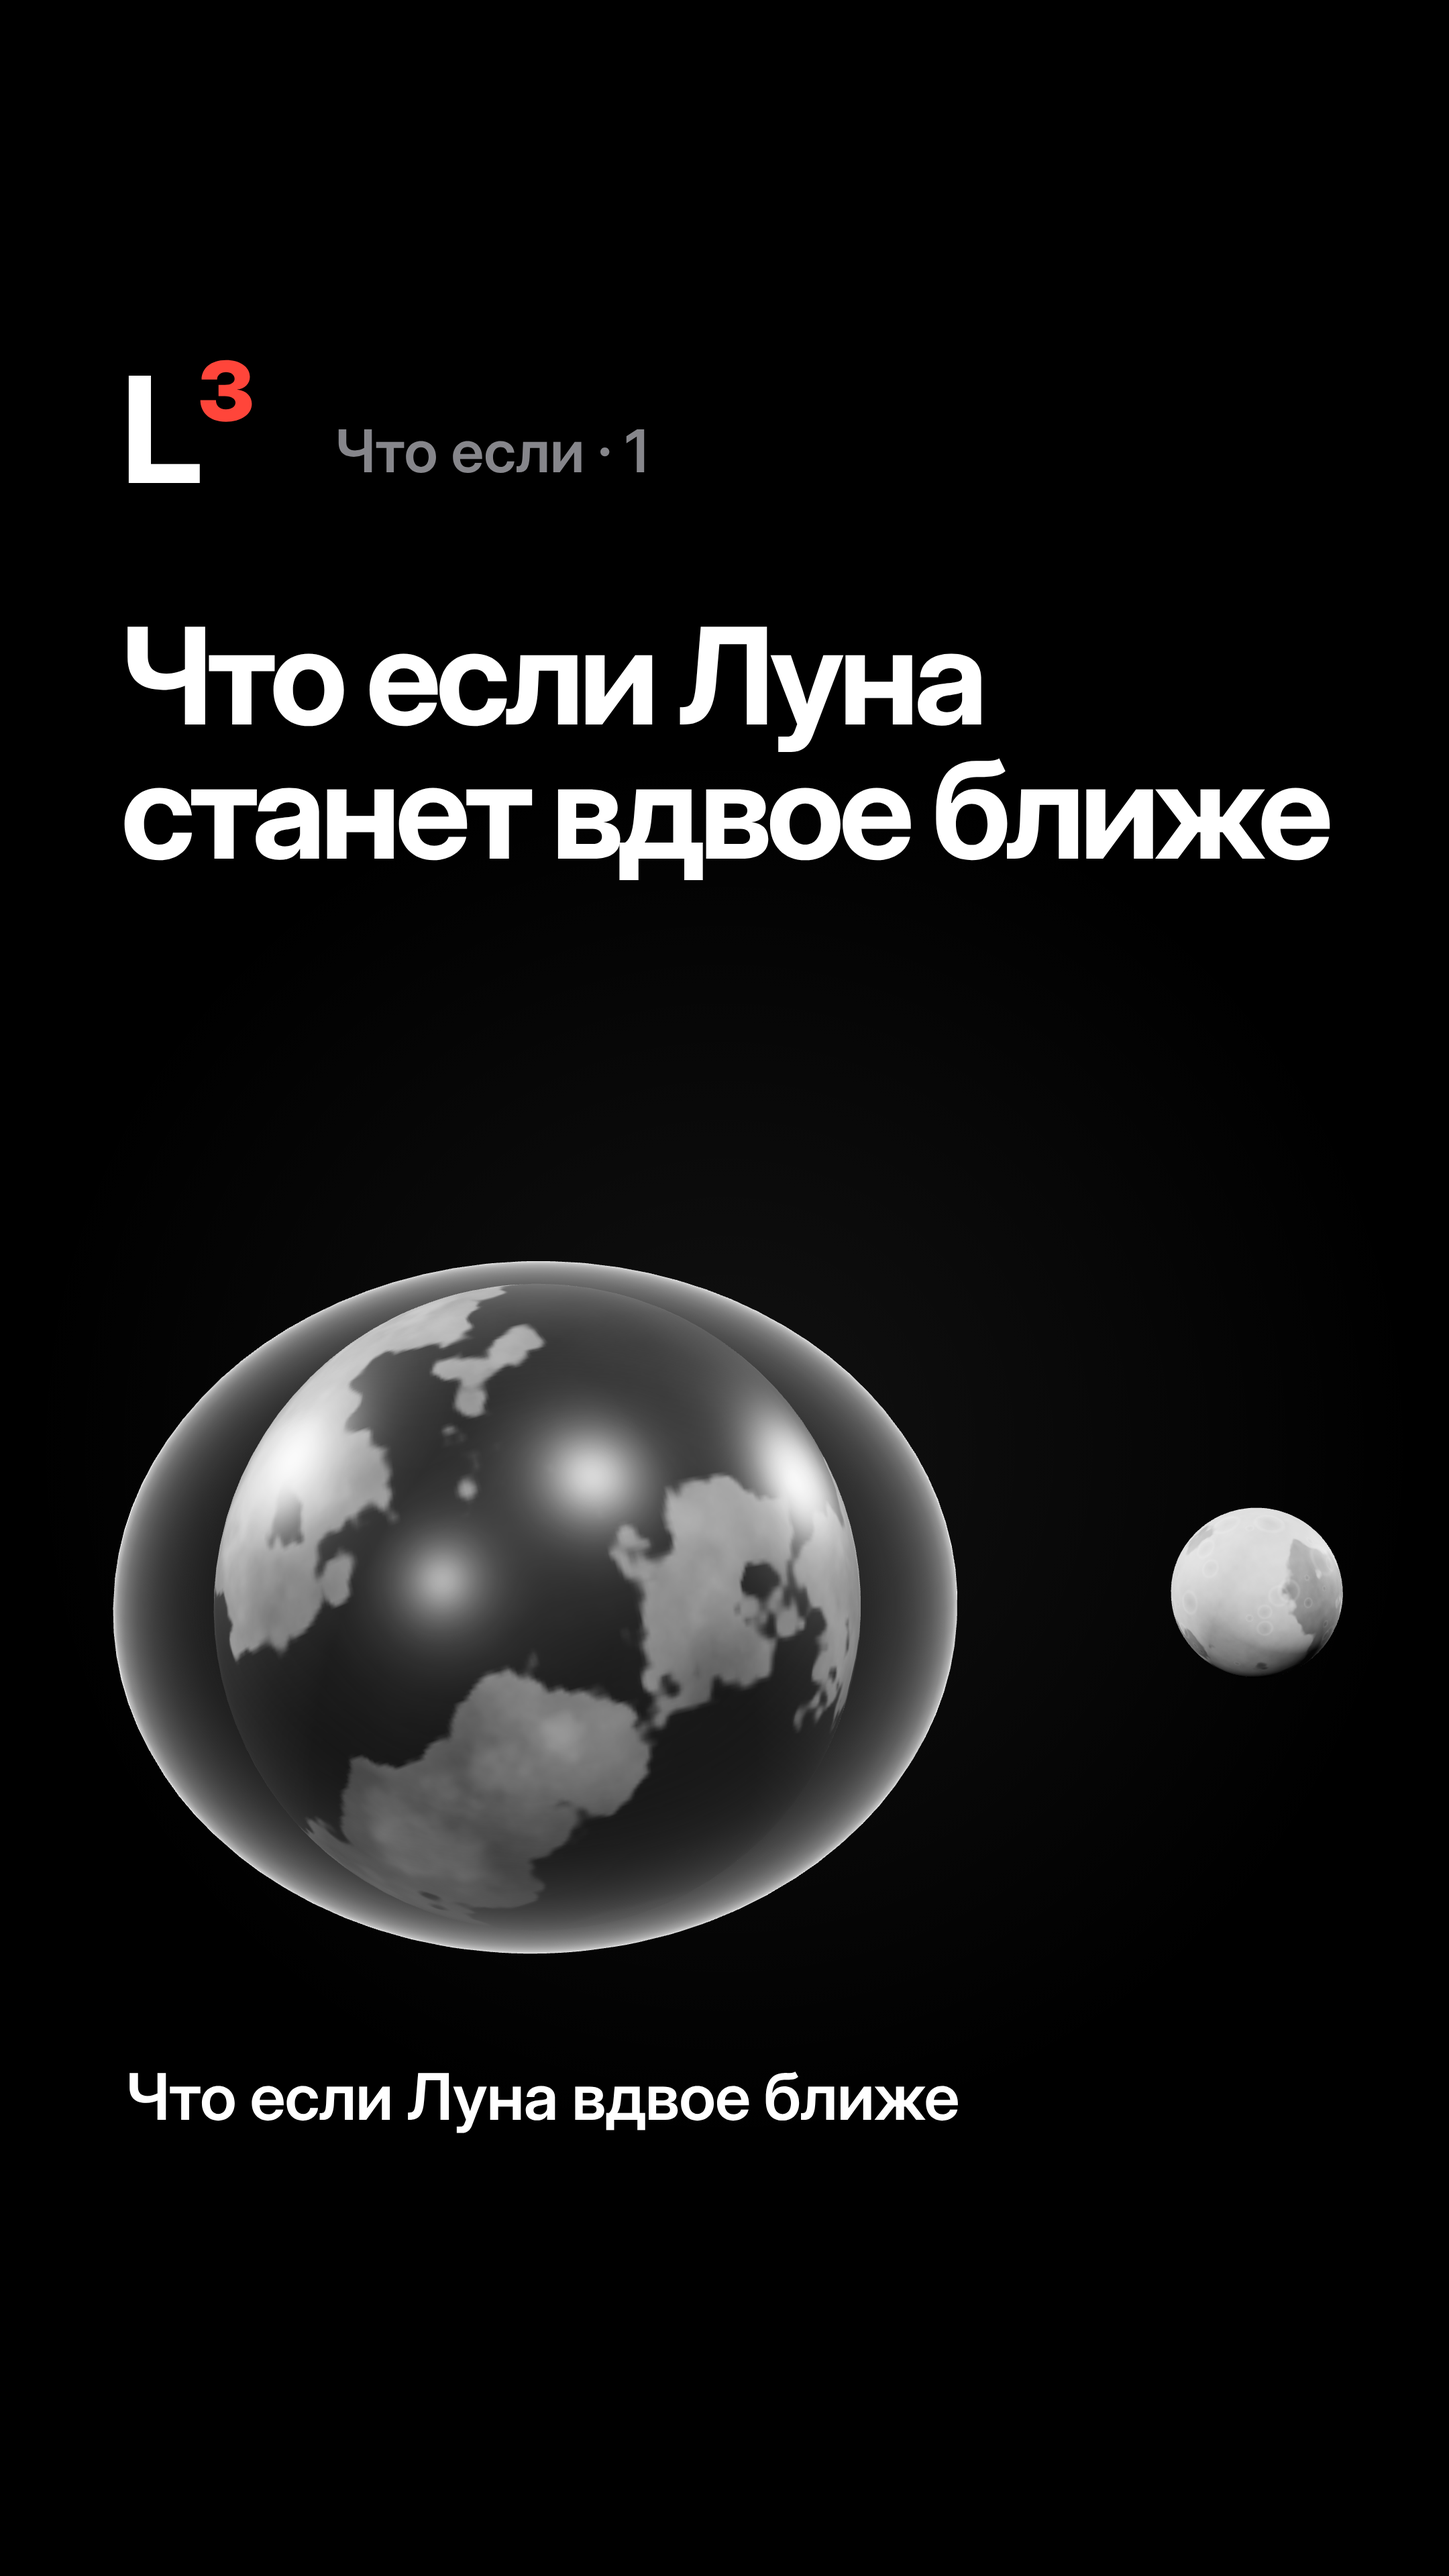
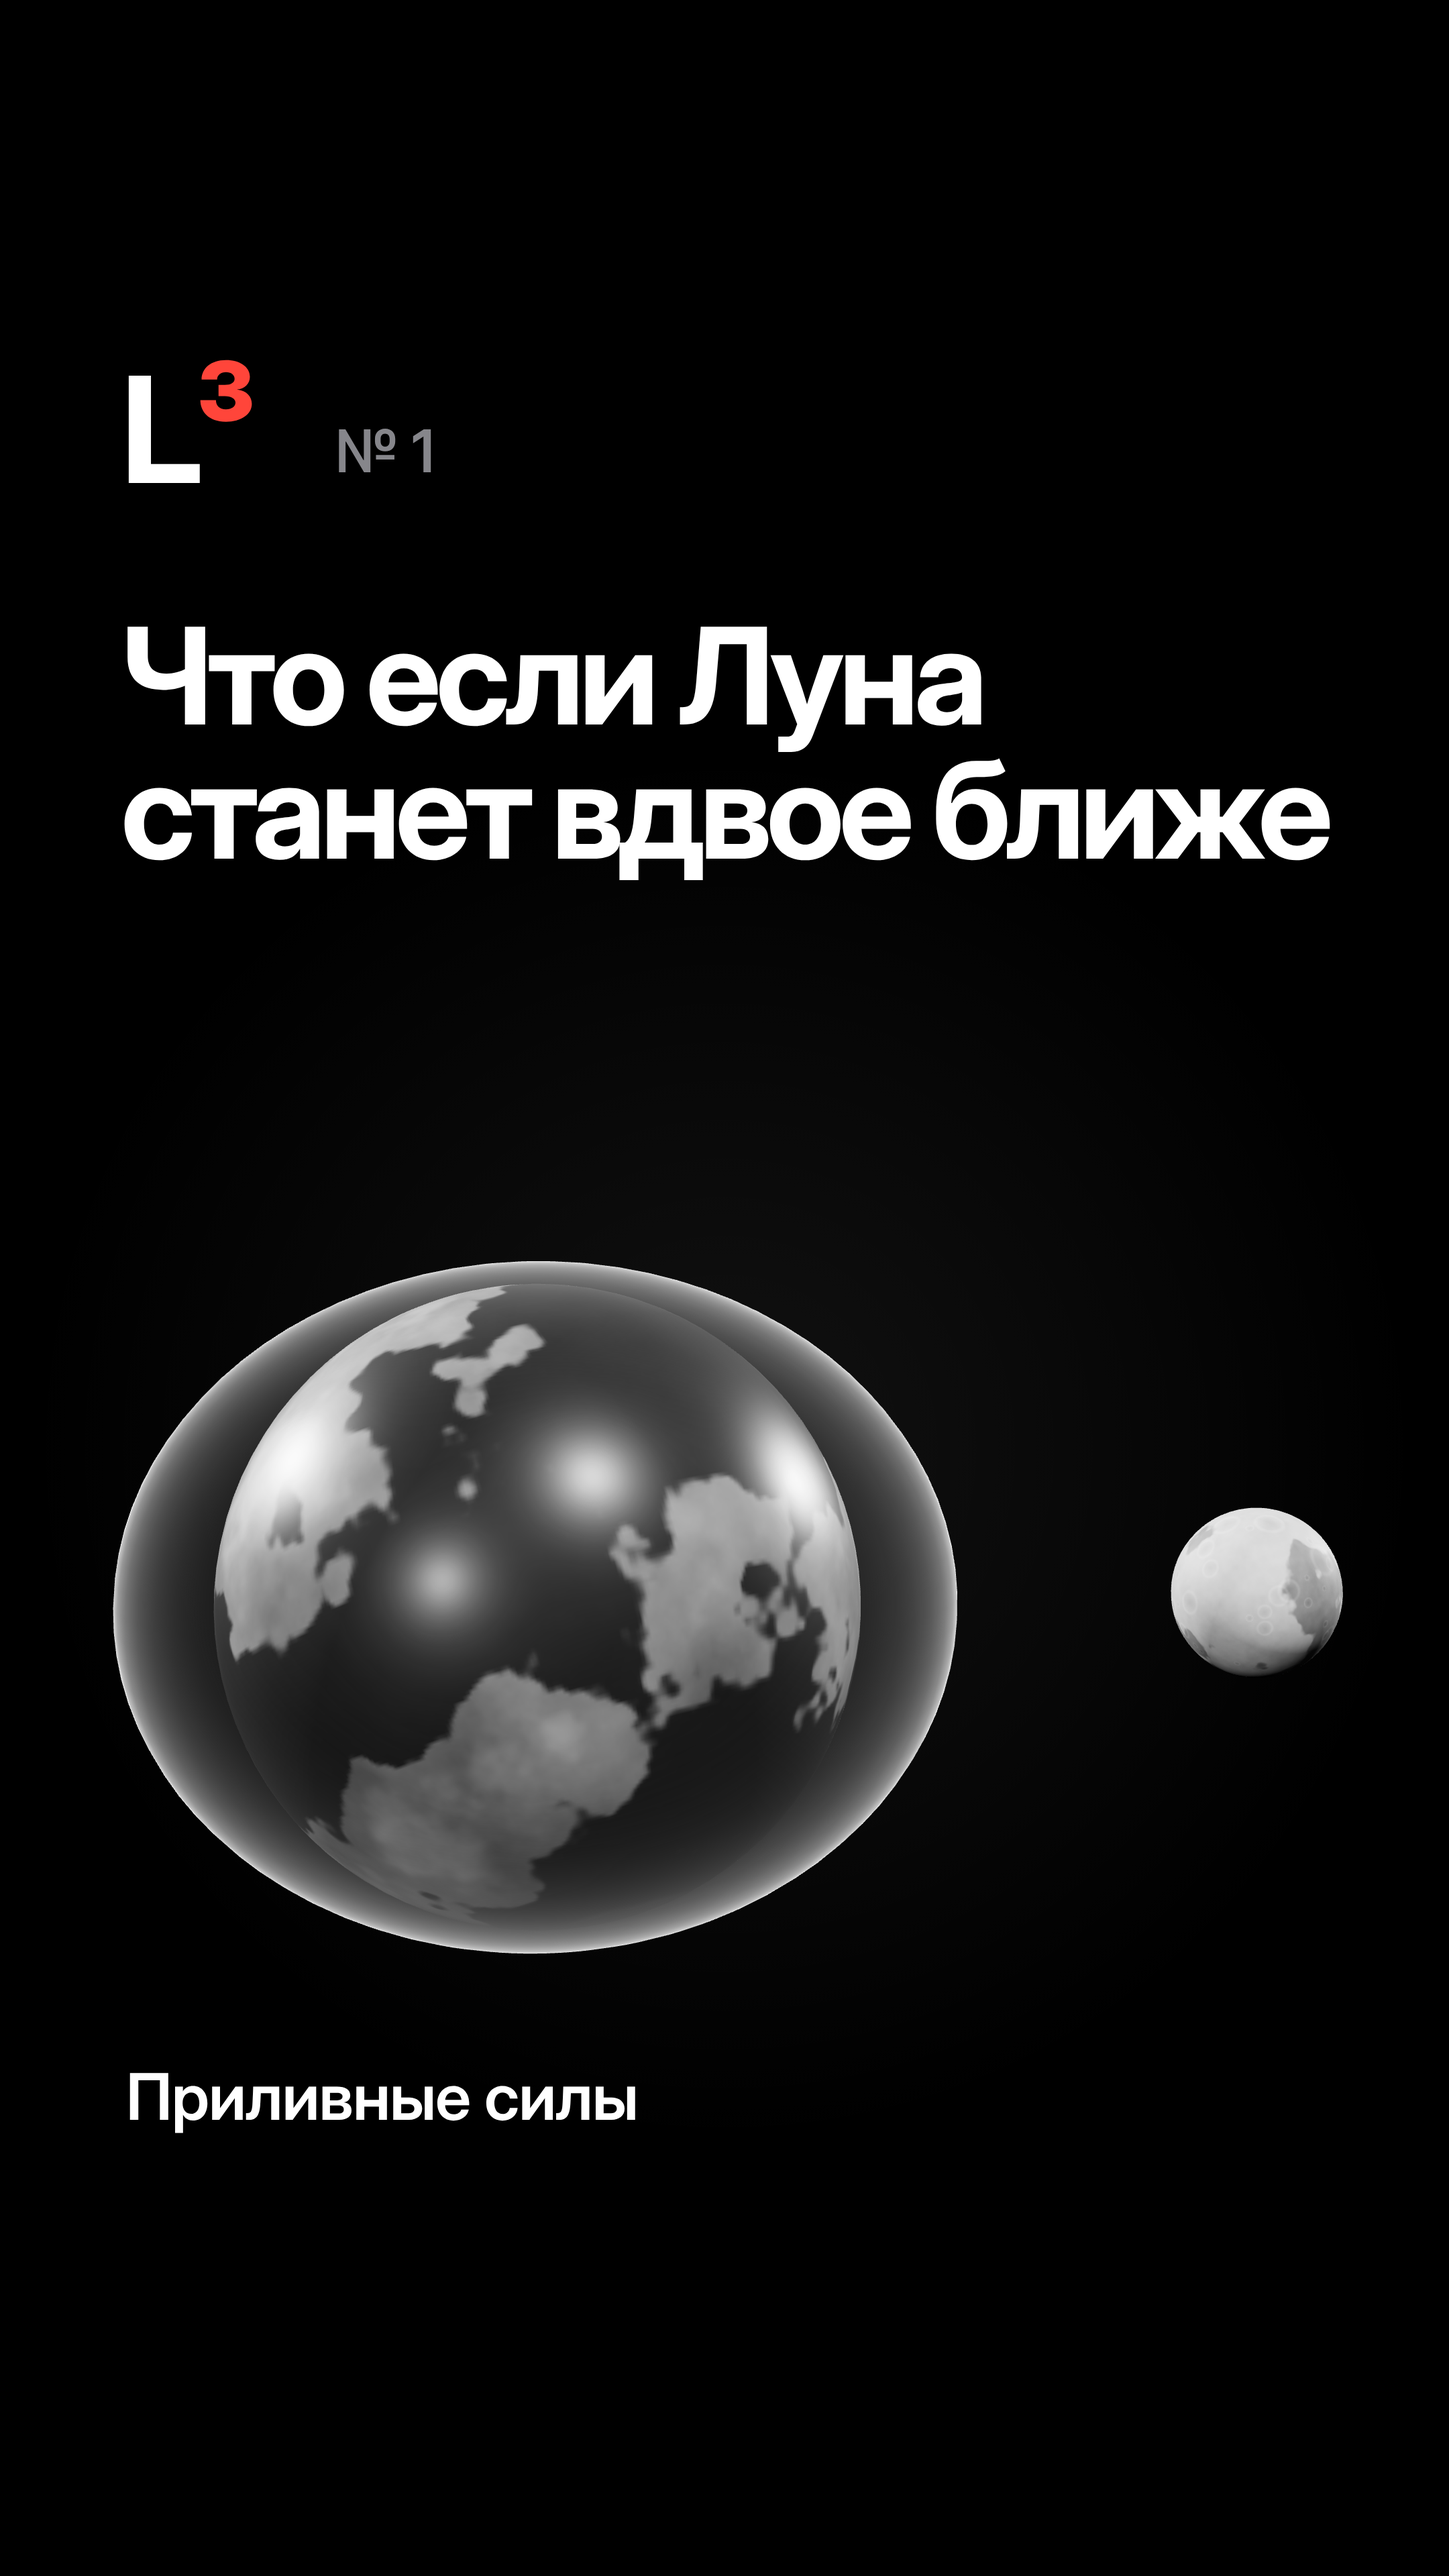
Что если w1: обложки в точности как у основной серии (№ 1, название закона внизу)
Claude-Session: https://claude.ai/code/session_01BZmGe7xbFacvNdXRrUeCkC

Changed region(s): [[0.0931, 0.7812, 0.6514, 0.8438], [0.2481, 0.1562, 0.4032, 0.1875], [0.4343, 0.1562, 0.4653, 0.1875]]

diff --git a/episodes.md b/episodes.md
@@ -41,7 +41,7 @@
 # Рубрика «Что если»
 
 Вторая рубрика канала. Основная серия объясняет закон, «Что если» прогоняет закон через невозможный сценарий и считает последствия.
-Оформление, движок, звук, субтитры и обложки те же; отличается только метка рубрики («Что если · N» вместо «№ N»).
+Оформление, движок, звук, субтитры и обложки те же; обложки в точности как у основной серии, только своя нумерация рубрики (№ 1, № 2…).
 Номера: `w1`, `w2`… (папки `apple/episodes/wN/`, ролики `videos/wN-<slug>/`, обложки `wN-tiktok-cover`, `wN-shorts-cover`).
 
 | № | Сценарий | На каком законе стоит | Главная цифра (красная) | 3D-визуал |

diff --git a/CLAUDE.md b/CLAUDE.md
@@ -9,8 +9,8 @@
 ## Рубрики
 
 - Основная серия: законы природы, номера `ep<N>`, на обложке «№ N».
-- «Что если»: закон через невозможный сценарий, номера `w<N>` (пилот `w1`, Луна вдвое ближе), на обложке «Что если · N»
-  (поле `tag` в `cover.json`, `n: "w1"`). Оформление, стиль и обложки те же. План: `episodes.md`.
+- «Что если»: закон через невозможный сценарий, номера `w<N>` (пилот `w1`, Луна вдвое ближе), обложки в точности как у основной серии,
+  только своя нумерация: «№ 1», «№ 2»… (поле `tag` в `cover.json`, `n: "w1"`); внизу название закона. План: `episodes.md`.
 
 ## Правило сдачи нового видео
 
